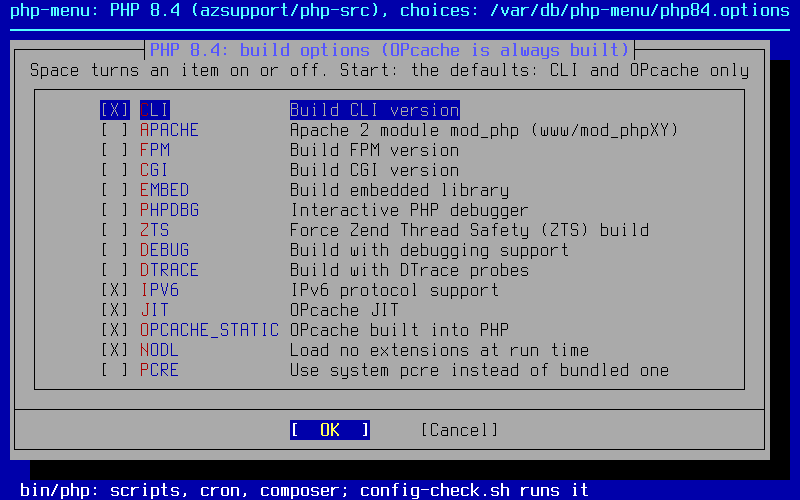
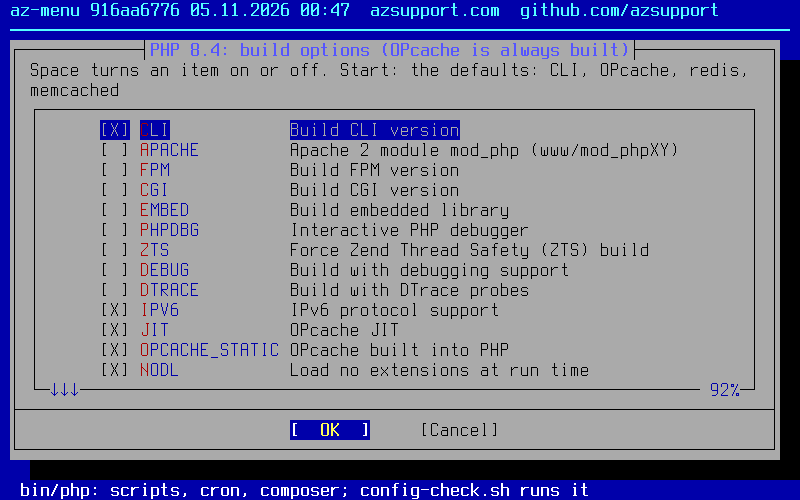
README: the pictures of az-menu.sh again, with the list of packages
The screenshots of tools/menu-screenshots.py with az-menu.sh: its version on the
top line, the list of packages with Options on a ready PHP, the screens of the
options of memcached and redis, which the defaults turn on now.

diff --git a/README.md b/README.md
@@ -424,6 +424,12 @@ their options (below) and keeps the choices. OK then installs the ready ones wit
 offers to install it; a PHP ticked without Options gets the menu of its version
 first.
 
+The list of packages (ffmpeg, ImageMagick 7 and the ready php74 ticked) and Options on
+php74: what it is built with.
+
+<p><img src="docs/images/menu-packages.png" alt="The packages of az" width="800"></p>
+<p><img src="docs/images/menu-packages-options.png" alt="What the ready php74 is built with" width="800"></p>
+
 The menu of a version (`sh az-menu.sh 8.4`, or `sh az-menu.sh` inside a source tree)
 is the `make config` of the ports for this fork: dialogs (bsddialog on FreeBSD 14 and
 later, dialog on 13) with the descriptions of the ports. Unlike the ports,
@@ -539,8 +545,10 @@ the CLI and OPcache, redis with igbinary and zstd, memcached without SASL):
 <p><img src="docs/images/menu-roundcube-ext2.png" alt="More extensions with the roundcube template" width="800"></p>
 <p><img src="docs/images/menu-main.png" alt="The main menu" width="800"></p>
 <p><img src="docs/images/menu-roundcube-script.png" alt="The script of the roundcube template" width="800"></p>
-<p><img src="docs/images/menu-bare-core.png" alt="Build options of the bare build" width="800"></p>
-<p><img src="docs/images/menu-bare-script.png" alt="The script of the bare build" width="800"></p>
+<p><img src="docs/images/menu-bare-core.png" alt="Build options of the base build" width="800"></p>
+<p><img src="docs/images/menu-bare-memcached.png" alt="The options of memcached" width="800"></p>
+<p><img src="docs/images/menu-bare-redis.png" alt="The options of redis" width="800"></p>
+<p><img src="docs/images/menu-bare-script.png" alt="The script of the base build" width="800"></p>
 <p><img src="docs/images/menu-bare.gif" alt="az-menu.sh with the defaults" width="800"></p>
 
 </details>
